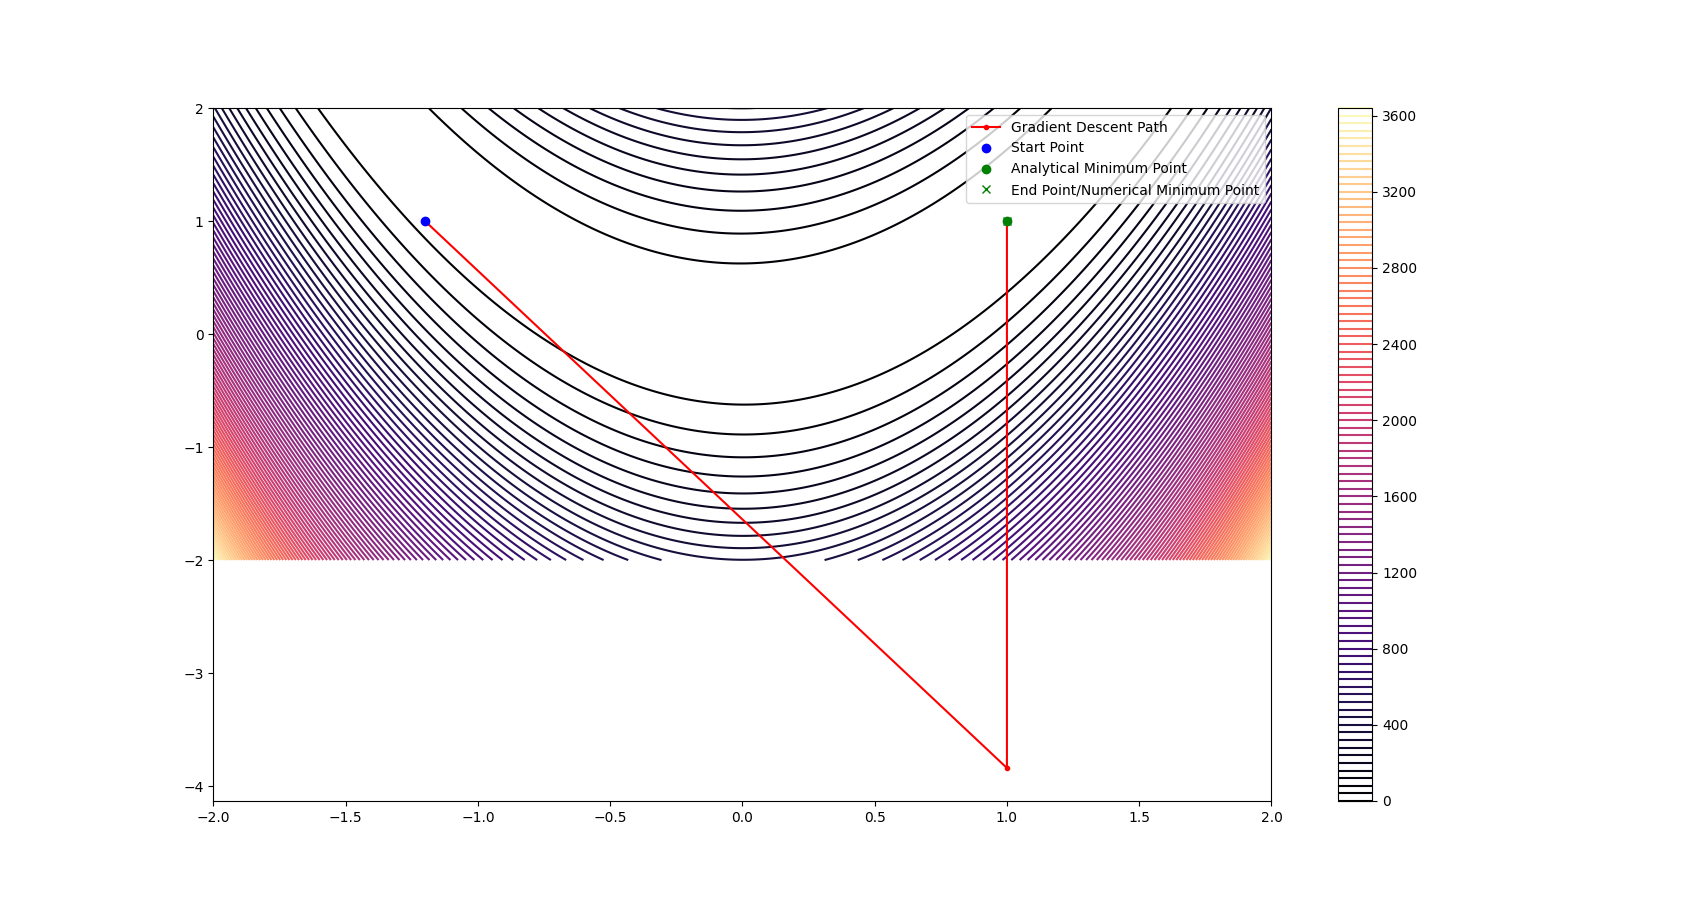
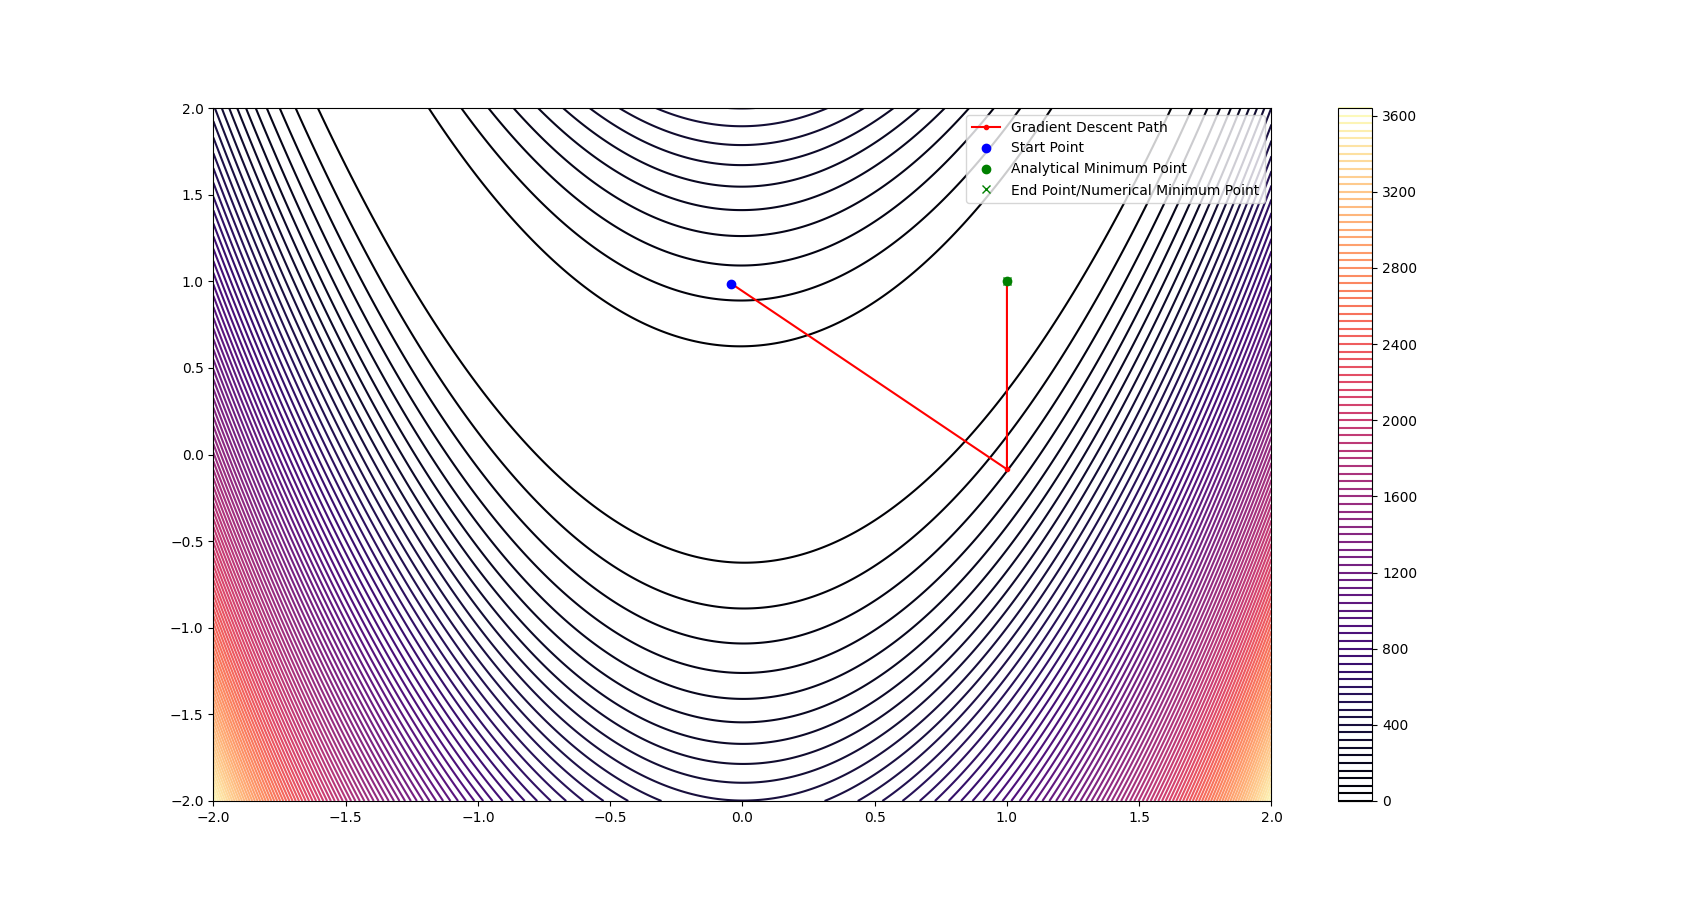
Added randomness to start point for Task 2

Changed region(s): [[0.0932, 0.1244, 0.7456, 0.9022], [0.2485, 0.1244, 0.6213, 0.3422], [0.4039, 0.3422, 0.4971, 0.4044]]

diff --git a/task2.py b/task2.py
@@ -75,7 +75,7 @@ def gauss_newton_method(start, n_iterations):
 
 
 # Parameters for gradient descent
-start_point = (-1.2, 1.0)
+start_point = (-np.random.uniform(-2, 2), -np.random.uniform(-2, 2))
 learning_rate = 0.001
 iterations = 20000
 
